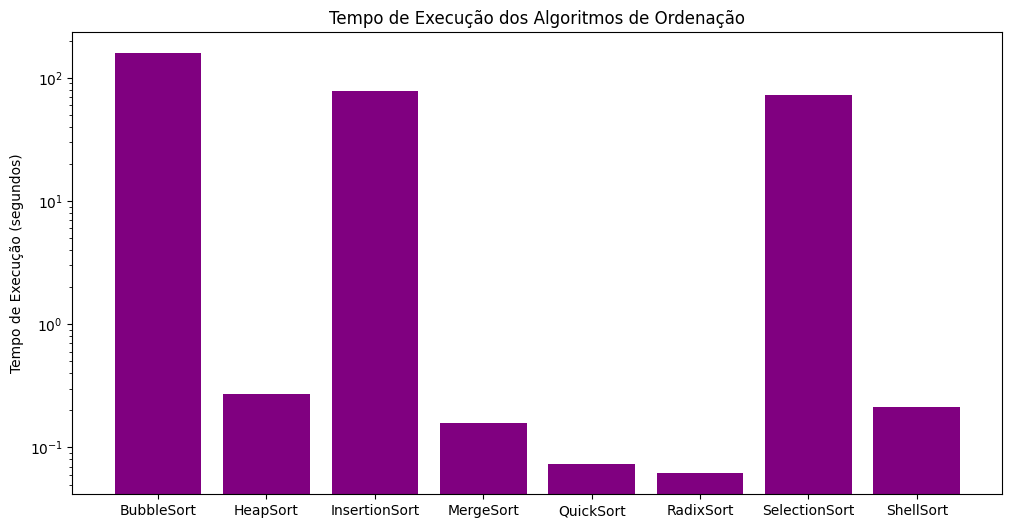
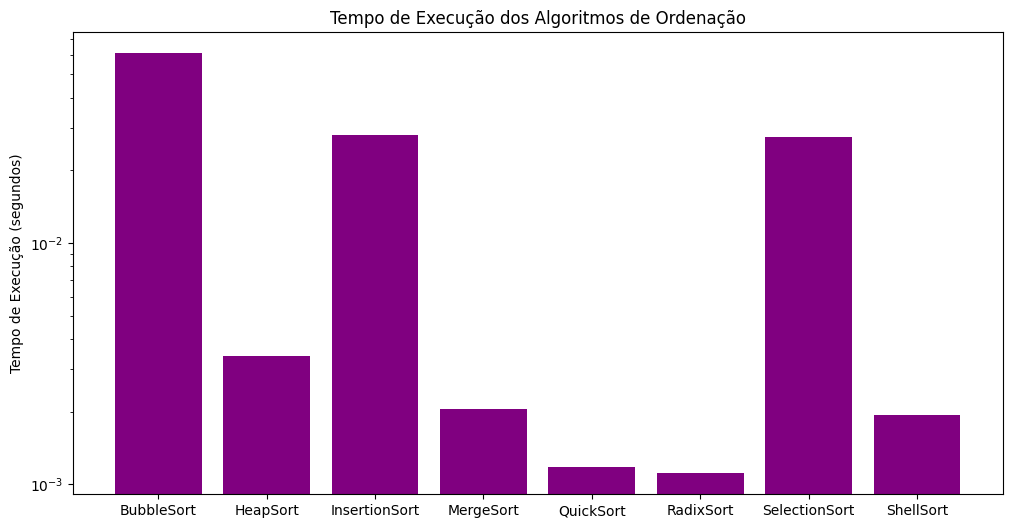
Add results lista ordenada

diff --git a/main.py b/main.py
@@ -32,9 +32,9 @@ listas = Listas()
 grafico = geraGrafico()
 
 #Salvando cada tipo de lista em cada variável
-#lista = listas.lista1k()
+lista = listas.lista1k()
 #lista = listas.lista10k()
-lista = listas.lista50k()
+#lista = listas.lista50k()
 #lista = listas.lista100k()
 #lista = listas.listaOrdenada1k()
 #lista = listas.listaOrdenada10k()
